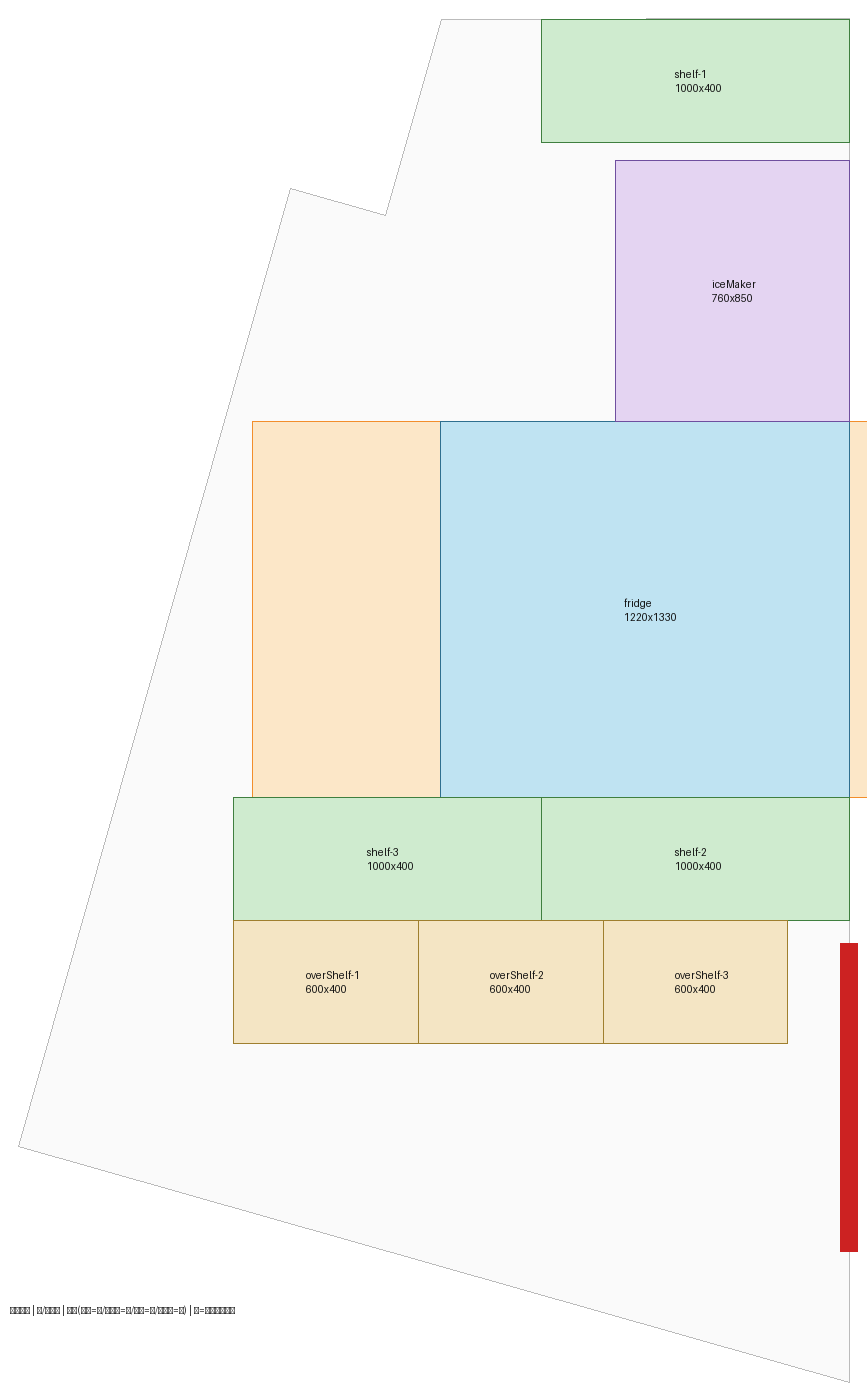
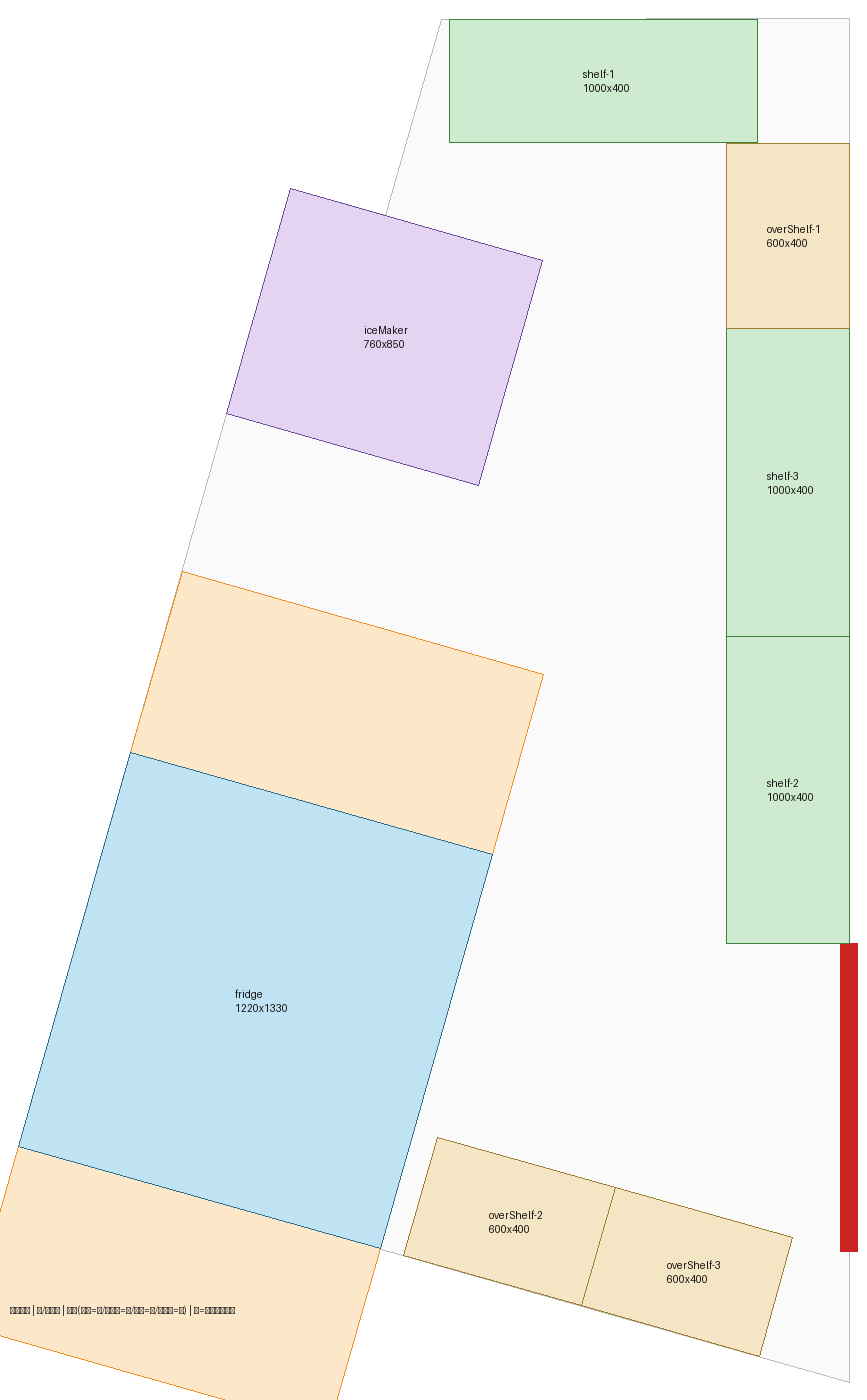
回退默认朝向为 auto（与任意轮廓边平行/垂直，含斜墙）：修正 --dfs-nodes 命令行默认值、DFS 分支上限与已贴墙提前退出；README 同步并更新 Python 版本要求为 3.7+

diff --git a/solve/solver.py b/solve/solver.py
@@ -16,7 +16,7 @@ CONTACT_MEASURE_TOL = 1e-3  # mm, for measuring wall/item contact lengths
 
 @dataclass
 class Config:
-    orientation: str = "axis"                 # axis | auto
+    orientation: str = "auto"                 # auto (default) | axis
     fridge_clearance: Optional[float] = None  # None -> length/2
     min_wall_len: float = 500.0
     beam: int = 40
@@ -26,7 +26,7 @@ class Config:
     wall_step: float = 100.0
     max_pool: int = 500
     node_budget: int = 1500000
-    dfs_nodes: int = 0     # 0 = DFS only as a completeness fallback (>0 adds a quality pass)
+    dfs_nodes: int = 15000   # bounded, deterministic DFS quality pass (0 = disabled)
     time_limit: float = 25.0
     seed: int = 0
     _grid_enabled: bool = False
@@ -377,7 +377,7 @@ def _dfs(problem: Problem, order: List[Item], config: Config, deadline: float, n
         chosen = _dedup(chosen)
         scored = [(c, _placement_score(c, placed, room, door)) for c in chosen]
         scored.sort(key=lambda t: t[1], reverse=True)
-        for c, contrib in scored:
+        for c, contrib in scored[:config.branch]:
             rec(idx + 1, placed + [c], _add(score, contrib))
             if done[0] or time.time() > deadline:
                 return
@@ -438,6 +438,28 @@ def _beam(problem: Problem, order: List[Item], config: Config, deadline: float):
     return best if best[0] is not None else None
 
 
+def _repair_wall(problem: Problem, placements: List[Placement], order: List[Item],
+                 config: Config) -> List[Placement]:
+    """Deterministic one-item-at-a-time pass: move non-wall items onto a wall."""
+    room, door = problem.room, problem.door
+    pls = list(placements)
+    for i, pl in enumerate(pls):
+        if pl.wall_mm > geom.CONTACT_TOL:
+            continue
+        others = pls[:i] + pls[i + 1:]
+        best = None
+        best_key = None
+        for c in _wall_candidates(pl.item, room, door, config):
+            if c.wall_mm <= geom.CONTACT_TOL or _collides(c, others, config):
+                continue
+            key = _placement_score(c, others, room, door)
+            if best_key is None or key > best_key:
+                best, best_key = c, key
+        if best is not None:
+            pls[i] = best
+    return pls
+
+
 def _try_strategies(problem: Problem, config: Config, deadline: float):
     labels = ["fridge-first", "area-desc", "area-asc"]
     orders = _item_orders(problem.items)
@@ -449,8 +471,20 @@ def _try_strategies(problem: Problem, config: Config, deadline: float):
         r = _beam(problem, order, config, deadline)
         if r is not None and (best is None or r[1] > best[1]):
             best = (r[0], r[1], label + "/beam")
+        if best is not None and best[1][0] >= len(problem.items):
+            break  # every item already touches a wall -> cannot improve further
     if best is not None and best[1][0] >= len(problem.items):
         return best  # every item already touches a wall -> nothing left to optimise
+    # 1b) deterministic repair: try to move each off-wall item onto a wall
+    if best is not None:
+        repaired = _repair_wall(problem, best[0], orders[0], config)
+        score: Tuple[float, ...] = ()
+        for i, pl in enumerate(repaired):
+            score = _add(score, _placement_score(pl, repaired[:i], problem.room, problem.door))
+        if score > best[1]:
+            best = (repaired, score, best[2] + "+repair")
+    if best is not None and best[1][0] >= len(problem.items):
+        return best
     # 2) DFS: completeness fallback when the beam could not place everything; with
     #    --dfs-nodes > 0 it also acts as an optional (slower) quality pass.
     if best is None:

diff --git a/solve/tests/test_examples.py b/solve/tests/test_examples.py
@@ -16,38 +16,39 @@ def _fridge_clearance(problem):
 
 
 class TestEndToEnd(unittest.TestCase):
-    def test_all_examples_feasible_and_valid_default(self):
-        """Default orientation is strict 0/90: every example must be feasible + valid."""
+    def test_all_examples_feasible_valid_and_wall_hugging(self):
+        """Default config: every example feasible, valid, and fully wall-hugging."""
         for k in (1, 2, 3, 4):
             with self.subTest(example=k):
-                problem, result, out = solve_cached(k, orientation="axis")
+                problem, result, out = solve_cached(k)
                 self.assertTrue(result.feasible, "example%d not feasible" % k)
                 vr = validator.validate(problem, out)
                 self.assertTrue(vr["passed"], "example%d failed: %s" % (k, vr["checks"]))
+                self.assertEqual(vr["metrics"]["itemsTouchingWall"], len(problem.items))
                 self.assertAlmostEqual(vr["metrics"]["fridgeClearanceMm"], _fridge_clearance(problem), places=6)
 
-    def test_auto_orientation_improves_wall_hugging(self):
-        """example1 has slanted walls: auto can hug them, strict 0/90 cannot."""
-        p_axis, _, out_axis = solve_cached(1, orientation="axis")
-        p_auto, _, out_auto = solve_cached(1, orientation="auto")
-        v_axis = validator.validate(p_axis, out_axis)["metrics"]["itemsTouchingWall"]
+    def test_axis_orientation_costs_wall_contact_on_slanted_room(self):
+        """example1 has slanted walls: strict 0/90 cannot hug them."""
+        p_auto, _, out_auto = solve_cached(1, orientation="auto", dfs_nodes=0)
+        p_axis, _, out_axis = solve_cached(1, orientation="axis", dfs_nodes=0)
         v_auto = validator.validate(p_auto, out_auto)["metrics"]["itemsTouchingWall"]
+        v_axis = validator.validate(p_axis, out_axis)["metrics"]["itemsTouchingWall"]
         self.assertGreater(v_auto, v_axis)
         self.assertEqual(v_auto, len(p_auto.items))
-        self.assertTrue(validator.validate(p_auto, out_auto)["passed"])
 
     def test_determinism(self):
         for k in (1, 4):
             with self.subTest(example=k):
-                problem, r1, out1 = solve_cached(k, orientation="axis")
-                r2 = solver.solve(problem, solver.Config(time_limit=30, orientation="axis", dfs_nodes=0))
+                problem, r1, out1 = solve_cached(k)
+                r2 = solver.solve(problem, solver.Config(time_limit=30,
+                                                         orientation="auto", dfs_nodes=15000))
                 self.assertEqual(out1, serialize(r2))
 
     def test_orientation_axis_restricts_to_multiples_of_90(self):
-        """Default (axis) mode must only produce 0/90 angles."""
+        """axis mode must only produce 0/90 angles."""
         for k in (1, 2, 3, 4):
             with self.subTest(example=k):
-                problem, result, out = solve_cached(k, orientation="axis")
+                problem, result, out = solve_cached(k, orientation="axis", dfs_nodes=0)
                 self.assertTrue(result.feasible)
                 for pl in result.placements:
                     a = pl.angle % 180.0

diff --git a/solve/cli.py b/solve/cli.py
@@ -49,13 +49,13 @@ def serialize_result(result: solver.Result, problem: Problem) -> Dict:
 
 
 def _add_common_args(ap: argparse.ArgumentParser) -> None:
-    ap.add_argument("--orientation", choices=["axis", "auto"], default="axis",
-                    help="axis: 只允许 0/90（默认）；auto: 额外允许与斜墙平行/垂直的倾斜摆放")
+    ap.add_argument("--orientation", choices=["auto", "axis"], default="auto",
+                    help="auto: 允许与任意轮廓边（含斜墙）平行/垂直，默认；axis: 只允许 0/90")
     ap.add_argument("--fridge-front-clearance-mm", type=float, default=None)
     ap.add_argument("--beam", type=int, default=40)
     ap.add_argument("--branch", type=int, default=50)
-    ap.add_argument("--dfs-nodes", type=int, default=0,
-                    help=">0 时额外做一次节点数为该值的 DFS 质量优化（更慢，结果确定性不变）")
+    ap.add_argument("--dfs-nodes", type=int, default=15000,
+                    help="DFS 兜底/质量步的节点上限；0 = 完全关闭 DFS（更快）")
     ap.add_argument("--time-limit", type=float, default=25.0)
     ap.add_argument("--seed", type=int, default=0)
     ap.add_argument("--wall-step", type=float, default=100.0)

diff --git a/solve/tests/helpers.py b/solve/tests/helpers.py
@@ -32,7 +32,7 @@ def serialize(result):
     }
 
 
-def solve_cached(k, orientation="axis", dfs_nodes=0, time_limit=30.0):
+def solve_cached(k, orientation="auto", dfs_nodes=15000, time_limit=30.0):
     """Solve example k once per (orientation, dfs_nodes) and cache the outcome."""
     key = (k, orientation, dfs_nodes)
     if key not in _CACHE:

diff --git a/solve/tests/test_validator.py b/solve/tests/test_validator.py
@@ -15,7 +15,7 @@ INPUT = os.path.join(ROOT, "Input")
 
 def _solve(k):
     """Cached solve (deep-copied so tests may mutate the result freely)."""
-    problem, _result, out = solve_cached(k, orientation="axis")
+    problem, _result, out = solve_cached(k, orientation="auto", dfs_nodes=0)
     return problem, copy.deepcopy(out)
 
 

diff --git a/README.md b/README.md
@@ -27,10 +27,10 @@
 
 ### 1.3 朝向集合（H3：与轮廓边平行或垂直）
 
-- **默认只允许 0°/90°**（`--orientation axis`）：输出的旋转角只有 0°/90°，即与房间中横平竖直的墙平行或垂直。
-- `--orientation auto`（可选）会额外把每条轮廓边方向按 mod 90° 聚类（容差 1°，簇内总墙长 ≥ 500 mm 才纳入，代表角在 0.5° 内吸附到 0°/90°），并把聚类代表角及其 +90° 也作为允许角。此时 `example1` 得到 {0°, 90°, 15.852°, 105.852°} —— 注意这**不是任意角度**，而是「允许贴着那堵 15.852° 的斜墙、与该墙严格平行（实测偏差 0.000°）」；`example2/3/4` 没有斜墙，两种模式结果一致。
+- **默认 `--orientation auto`**：把每条轮廓边方向按 mod 90° 聚类（容差 1°，簇内总墙长 ≥ 500 mm 才纳入，代表角在 0.5° 内吸附到 0°/90°），允许角 = 聚类代表角及其 +90°。这样物体对**任意**轮廓边（含斜墙）都能做到平行或垂直：`example1` 的允许角是 {0°, 90°, 15.852°, 105.852°}，其中 15.852° 正是该房间那堵斜墙的方向（实测物体与该墙平行的偏差为 0.000°）；`example2/3/4` 没有斜墙，结果只用 0°/90°。
+- **"斜向"不是任意角度**：它只是"与斜墙平行"，允许角始终来自真实的墙方向，只有 4 个离散值。
 - 求解时物体使用**每条边各自的精确角度**（而不是聚类的平均值），避免斜墙贴边时出现亚毫米的误差。
-- 两种模式都满足题目「与轮廓边平行或垂直」。差别只在**能否贴斜墙**：`example1` 用 `auto` 可 8/8 贴墙，用默认的 `axis` 为 4/8（E4/E5 两面斜墙共 6039 mm 用不上）。
+- `--orientation axis`（可选）限定只用 0°/90°。两种模式都满足题目「与轮廓边平行或垂直」；差别只在能否贴斜墙：`example1` 默认（auto）8/8 贴墙，`axis` 只有 4/8。
 
 ### 1.4 净空规则（全部按题目口径）
 
@@ -50,7 +50,7 @@
    - **B 物体锚定**：贴合最近一个已放物体的边滑动（用于紧贴排列）。
    - **C 内部粗栅格回退**：仅在墙+物体锚定找不到解时启用（50 mm 步长 × 允许角，取前若干）。
 2. **打分（字典序最大化）**：① 贴墙物体数 → ② 贴墙接触总长 → ③ 与已放物体接触总长 → ④ 中心到墙距离（越小越好）→ ⑤ 冰箱朝向门 → ⑥ 坐标字典序（保证可复现）。
-3. **搜索**：**beam search** 为主（宽 40，跨墙交错采样保持多样性）；**仅当 beam 未能放下全部物体时**，才退到 **DFS 回溯**（节点预算内保留最优解）作为可行性兜底。全过程只用节点/规模预算、不用时间预算，因此结果**每次运行完全一致**（`--dfs-nodes > 0` 可额外开启一次较慢的 DFS 质量优化）。
+3. **搜索**：**beam search** 为主（宽 40，跨墙交错采样保持多样性）；若仍有物体没贴墙，再做一次确定性的**贴墙修复**（逐个尝试把未贴墙的物体挪到墙上），最后用**节点数有界的 DFS** 兜底（既能补可行性，也能改善贴墙数；`--dfs-nodes 0` 可关闭）。全过程只用节点/规模预算、不用时间预算，因此结果**每次运行完全一致**。
 4. **口径回退**：若某样例在 `length/2` 净空下确实无解，自动改用「纯题面 0 mm 净空」重试，并在结果中标注 `clearanceMode`，**绝不给出误导性的「不可行」结论**。
 
 ### 1.6 独立校验器（`solve/validator.py`，验证题目的要求）
@@ -72,14 +72,14 @@
 
 ### 1.7 复杂度与「是否可行」的表述边界
 
-- 几何判定为 O(边数 × 物体数)；搜索以 beam 为主（并行保留 40 条状态），单样例约 1.5~4 秒，四例合计约 10 秒。
+- 几何判定为 O(边数 × 物体数)；搜索以 beam 为主（并行保留 40 条状态），单样例约 1~9 秒，四例合计约 13 秒（`example2` 会用 DFS 兜底多花几秒）。
 - **诚实性说明**：搜索到合法解 → `feasible=true`（构造性证明，且被独立校验器复核）；搜索不到 → `feasible=false` 且状态为「在给定预算内未找到」，并附诊断（面积/候选数/放宽约束后的结果），**不声称已证明不可行**。矩形装箱本身是 NP-hard，本实现是启发式而非精确求解器。
 
 ---
 
 ## 2. 运行环境及运行方式
 
-- 环境：**Python 3.9+**（在 Python 3.12 上实测）。求解器与校验器**只用标准库，无第三方依赖**；出图需要可选依赖 `Pillow`（`pip install pillow`）。
+- 环境：**Python 3.7+**（本机实测通过 **3.10.11** 与 **3.12.14**）。只用标准库；最低版本由 `dataclasses` 与 `from __future__ import annotations` 决定（均为 3.7 引入），代码里没有用到 3.8/3.9 之后才有的 API。出图需要可选依赖 `Pillow`（`pip install pillow`），不装则自动跳过出图、其余功能不受影响。
 - 目录：代码在 `solve/`，输入在 `Input/`，结果在 `Output/`。
 
 ```bash
@@ -104,9 +104,9 @@ python -m unittest discover -s solve/tests -t .
 | 参数 | 默认 | 说明 |
 |---|---|---|
 | `--fridge-front-clearance-mm` | `length/2`（本题 610） | 冰箱开门边净空深度；`0`=纯题面，`300/610/800/1220` 可复现各参考实现 |
-| `--orientation` | `axis` | `axis`=只允许 0°/90°（默认）；`auto`=额外允许与斜墙平行/垂直的倾斜摆放 |
+| `--orientation` | `auto` | `auto`=允许与任意轮廓边（含斜墙）平行/垂直；`axis`=只允许 0°/90° |
 | `--beam` | `40` | beam 搜索宽度 |
-| `--dfs-nodes` | `0` | `0`=DFS 仅作可行性兜底；`>0` 时额外做一次该节点数的 DFS 质量优化（更慢，但仍确定） |
+| `--dfs-nodes` | `15000` | DFS 兜底/质量步的节点上限；设为 `0` 则完全关闭 DFS（更快） |
 | `--time-limit` | `25` | 单样例时间上限（秒，仅作安全阀；正常不触发，故不影响复现性） |
 | `--wall-step` | `100` | 沿墙采样步长（mm） |
 | `--seed` | `0` | 随机种子（回退阶段用，保证可复现） |
@@ -117,44 +117,44 @@ python -m unittest discover -s solve/tests -t .
 
 ## 3. 既定输入的输出示例
 
-四个样例均 **`feasible = true`**、独立校验 **V1–V8 全 PASS**（以下为默认口径：`--orientation axis`，旋转角只有 0°/90°）：
+四个样例均 **`feasible = true`**、独立校验 **V1–V8 全 PASS**，且**所有物体都贴墙**（默认口径 `--orientation auto`）：
 
 | 样例 | 可行 | 校验 | 物品 | 贴墙 | 贴墙总长 | 冰箱净空 |
 |---|---|---|---|---|---|---|
-| example1 | 是 | PASS | 8/8 | 4/8 | 2870 mm | 610 mm |
-| example2 | 是 | PASS | 8/8 | 7/8 | 8380 mm | 610 mm |
+| example1 | 是 | PASS | 8/8 | 8/8 | 8430 mm | 610 mm |
+| example2 | 是 | PASS | 8/8 | 8/8 | 8820 mm | 610 mm |
 | example3 | 是 | PASS | 9/9 | 9/9 | 8950 mm | 610 mm |
 | example4 | 是 | PASS | 6/6 | 6/6 | 8950 mm | 610 mm |
 
-> `example1` 的贴墙数偏低是因为该房间有 15.852° 的斜墙，0°/90° 无法贴它；改用 `--orientation auto`（允许与斜墙平行摆放）时 `example1` 可达 **8/8 贴墙**（贴墙总长 8430 mm），四个样例仍全部可行且校验通过。
+> `example1` 的旋转角里会出现 15.852°/105.852°（该房间的斜墙方向），这仍然是"与轮廓边平行或垂直"；若改用 `--orientation axis` 限定 0°/90°，该例贴墙数会降到 4/8（斜墙贴不上），其余三例不变。
 
 ### example1（斜墙房间，外开门，8 件）
 
 | 物体 | 类型 | 中心 (x, y) | 旋转角 |
 |---|---|---|---|
-| fridge | 冰箱 | (6456.736, 30660.290) | 90.000° |
-| iceMaker | 制冰机 | (6741.736, 29625.290) | 0.000° |
-| shelf-1 | 货架 | (6621.736, 28942.381) | 0.000° |
-| shelf-2 | 货架 | (6621.736, 31470.290) | 0.000° |
-| shelf-3 | 货架 | (5621.736, 31470.290) | 0.000° |
-| overShelf-1 | 离地架 | (5421.736, 31870.290) | 0.000° |
-| overShelf-2 | 离地架 | (6021.736, 31870.290) | 0.000° |
-| overShelf-3 | 离地架 | (6621.736, 31870.290) | 0.000° |
+| fridge | 冰箱 | (5191.891, 31931.017) | 15.852° |
+| iceMaker | 制冰机 | (5611.860, 29774.730) | 105.852° |
+| shelf-1 | 货架 | (6321.824, 28942.148) | 179.975° |
+| shelf-2 | 货架 | (6921.736, 31246.490) | 90.000° |
+| shelf-3 | 货架 | (6921.736, 30246.490) | 90.000° |
+| overShelf-1 | 离地架 | (6921.736, 29446.490) | 90.000° |
+| overShelf-2 | 离地架 | (6017.226, 32648.755) | 15.852° |
+| overShelf-3 | 离地架 | (6594.408, 32812.647) | 15.852° |
 
-（默认 0°/90° 口径，旋转角只有 0°/90°。用 `--orientation auto` 时该例会额外使用 15.852°/105.852° 等角度，以贴合那堵斜墙，贴墙数由 4/8 提升到 8/8。）
+（15.852°/105.852° 是贴那堵斜墙用的角度，与该墙平行；另有物体用 90°/179.975° 贴竖直墙与近水平墙。）
 
 ### example2（外开门，8 件）
 
 | 物体 | 类型 | 中心 (x, y) | 旋转角 |
 |---|---|---|---|
 | fridge | 冰箱 | (29603.389, 32665.030) | 0.000° |
-| shelf-1 | 货架 | (31396.389, 33875.632) | 90.000° |
-| shelf-2 | 货架 | (31096.389, 34770.029) | 0.000° |
-| shelf-3 | 货架 | (30096.389, 34770.029) | 0.000° |
-| shelf-4 | 货架 | (31396.389, 32640.030) | 90.000° |
-| overShelf-1 | 离地架 | (29293.389, 34770.029) | 0.000° |
-| overShelf-2 | 离地架 | (29293.389, 34270.029) | 90.000° |
-| overShelf-3 | 离地架 | (30693.389, 32300.030) | 90.000° |
+| shelf-1 | 货架 | (31396.389, 32540.030) | 90.000° |
+| shelf-2 | 货架 | (29493.389, 34770.029) | 0.000° |
+| shelf-3 | 货架 | (31096.389, 34770.029) | 0.000° |
+| shelf-4 | 货架 | (30796.389, 32500.030) | 90.000° |
+| overShelf-1 | 离地架 | (31396.389, 33675.632) | 90.000° |
+| overShelf-2 | 离地架 | (30296.389, 34770.029) | 0.000° |
+| overShelf-3 | 离地架 | (31296.389, 34175.632) | 0.000° |
 
 ### example3（内开门，N×N=700×700 禁区，9 件）
 
@@ -177,8 +177,8 @@ python -m unittest discover -s solve/tests -t .
 | fridge | 冰箱 | (183483.592, 32437.723) | 0.000° |
 | shelf-1 | 货架 | (184573.592, 30142.723) | 90.000° |
 | shelf-2 | 货架 | (183873.592, 29742.723) | 0.000° |
-| overShelf-1 | 离地架 | (183073.592, 29842.723) | 90.000° |
-| overShelf-2 | 离地架 | (184173.592, 30242.723) | 90.000° |
+| overShelf-1 | 离地架 | (184173.592, 30242.723) | 90.000° |
+| overShelf-2 | 离地架 | (183073.592, 29842.723) | 90.000° |
 | overShelf-3 | 离地架 | (184573.592, 30942.723) | 90.000° |
 
 ### example1 的真实结果 JSON 片段
@@ -190,10 +190,10 @@ python -m unittest discover -s solve/tests -t .
   "clearanceMode": "fridge-610mm",
   "angleConvention": "deg; 0 deg = length along +x, width along +y; counter-clockwise positive",
   "placements": [
-    {"name": "fridge", "type": "fridge", "center": [6456.736, 30660.29],
-     "rotation": 90.0, "length": 1220.0, "width": 1330.0},
-    {"name": "shelf-1", "type": "shelf", "center": [6621.736, 28942.381],
-     "rotation": 0.0, "length": 1000.0, "width": 400.0}
+    {"name": "fridge", "type": "fridge", "center": [5191.891, 31931.017],
+     "rotation": 15.852, "length": 1220.0, "width": 1330.0},
+    {"name": "shelf-1", "type": "shelf", "center": [6321.824, 28942.148],
+     "rotation": 179.9746, "length": 1000.0, "width": 400.0}
   ]
 }
 ```
@@ -222,6 +222,6 @@ python -m unittest discover -s solve/tests -t .
 ### 3. 哪些关键逻辑是我自己理解并调整的
 - **GitHub 上的仓库**：在 GitHub上找对应的项目，把项目 URL 给AI，让AI总结这些项目的净空是怎么定义的
 - **净空口径的定义**：题目只写了「开门边不能放任何东西」，并没有给净空深度。是我提出「净空应该和冰箱门的宽度有关」，据此确定 **冰箱开门边净空 = 冰箱门宽 = `length/2` = 610 mm**（本题为四门冰箱，单扇门宽 1220/2），把方案从AI 自造的 800 / 1220 等数值纠正回题目口径；同时确定 **内开门按题目 N×N、外开门用不得与门洞正长度重合的零深度判据**，不自造余量。
-- **旋转（摆放角度）口径**：以题目原文「物体可以旋转，但需与轮廓边平行或垂直摆放」为准，最终确定为**默认只允许 0°/90°**（即与房间横平竖直的墙平行或垂直），并保留 `--orientation auto` 作为可选口径——该口径下允许与 `example1` 那堵 15.852° 的斜墙严格平行地贴放（贴墙数 4/8 → 8/8），但默认不使用。
+- **旋转（摆放角度）口径**：以题目原文「物体可以旋转，但需与轮廓边平行或垂直摆放」为准 —— 这里的"平行/垂直"是相对**墙体轮廓边**而言，因此**默认允许与任意轮廓边（包括 `example1` 那堵 15.852° 的斜墙）平行或垂直**地摆放。这一处我自己判断并纠正过：一度把默认改成只允许 0°/90°，随即意识到那样对斜墙既不平行也不垂直（该例贴墙会从 8/8 掉到 4/8），于是回退；同时保留 `--orientation axis` 作为"只允许 0°/90°"的可选口径。
 - **要求AI做回归验证**：要求确认4 个用例是否都通过，据此做了确定性回归，以及对参考仓库输出的交叉校验。
 - 【待确认】可在此补充你自己还亲自核对/调整过的逻辑（例如：斜向摆放是否符合题意的判断、冰箱尺寸与图纸标注 `W1220*D1330` 的对应关系、对最终中心点/旋转角结果的抽查等）。

diff --git a/Output/validation.md b/Output/validation.md
@@ -15,7 +15,7 @@
 | V6 | PASS | fridge front 610mm clear |
 | V7 | PASS | flushing contact is permitted and is not counted as overlap (V3) |
 
-指标: 贴墙 4 件, 贴墙总长 2870.0 mm, 自由面积 4.62 m², 冰箱净空 610.0 mm
+指标: 贴墙 8 件, 贴墙总长 8430.0 mm, 自由面积 4.62 m², 冰箱净空 610.0 mm
 
 ## example2
 
@@ -32,7 +32,7 @@
 | V6 | PASS | fridge front 610mm clear |
 | V7 | PASS | flushing contact is permitted and is not counted as overlap (V3) |
 
-指标: 贴墙 7 件, 贴墙总长 8380.0 mm, 自由面积 3.76 m², 冰箱净空 610.0 mm
+指标: 贴墙 8 件, 贴墙总长 8820.0 mm, 自由面积 3.76 m², 冰箱净空 610.0 mm
 
 ## example3
 

diff --git a/Output/summary.md b/Output/summary.md
@@ -2,7 +2,7 @@
 
 | 样例 | 可行 | 净空口径 | 校验 | 物品 | 贴墙 | 贴墙总长(mm) | 冰箱净空(mm) |
 |---|---|---|---|---|---|---|---|
-| example1.json | 是 | fridge-610mm | PASS | 8/8 | 4/8 | 2870.0 | 610.0 |
-| example2.json | 是 | fridge-610mm | PASS | 8/8 | 7/8 | 8380.0 | 610.0 |
+| example1.json | 是 | fridge-610mm | PASS | 8/8 | 8/8 | 8430.0 | 610.0 |
+| example2.json | 是 | fridge-610mm | PASS | 8/8 | 8/8 | 8820.0 | 610.0 |
 | example3.json | 是 | fridge-610mm | PASS | 9/9 | 9/9 | 8950.0 | 610.0 |
 | example4.json | 是 | fridge-610mm | PASS | 6/6 | 6/6 | 8950.0 | 610.0 |
